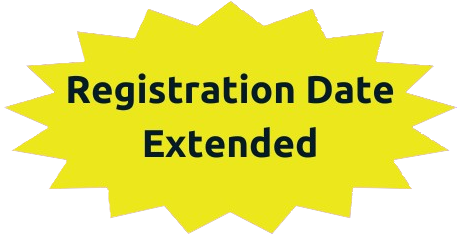
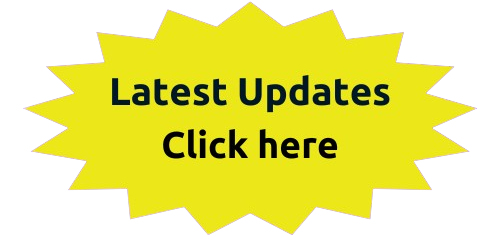
update changes on website

diff --git a/src/Styling/Home.css b/src/Styling/Home.css
@@ -60,8 +60,7 @@
   margin-left: calc(95% - 20px - 200px);
   position: absolute;
 }
-.extended img
-{
+.extended img {
   margin-top: 0px;
   width: 80%;
   cursor: pointer;
@@ -79,12 +78,15 @@
   border-radius: 8px;
   box-shadow: 0 0 10px rgba(0, 0, 0, 0.2);
   z-index: 1000;
-  width: 600px;
+  width: 70%;
+  overflow-y: scroll;
+  height: 350px;
 }
 
 .dialog h1 {
   margin-top: 0;
   color: #001727;
+  font-size: 22px;
 }
 
 .dialog a {
@@ -93,18 +95,17 @@
   color: #001727;
   text-decoration: none;
 }
-.dialog p{
+.dialog p {
   color: #001727;
-  font-size: 22px;
+  font-size: 18px;
   font-weight: 400;
 }
 
-.dialog button
-{
-  color:#001727;
-  background-color:#ebe718;
+.dialog button {
+  color: #001727;
+  background-color: #ebe718;
   padding: 5px;
-  font-size: 22px;
+  font-size: 18px;
   font-weight: 600;
   border-radius: 8px;
   border: none;
@@ -112,13 +113,11 @@
   height: 45px;
   transition: all 0.8 s ease;
 }
-.link_to_next_page
-{
+.link_to_next_page {
   display: flex;
   justify-content: space-between;
 }
-#next_page
-{
+#next_page {
   color: #001727;
   width: 150px;
 }
@@ -146,8 +145,7 @@
   overflow: hidden;
   animation: marqueeAnimation 12s linear infinite;
 }
-.marquee a
-{
+.marquee a {
   color: #001727;
   font-size: 16px;
   margin-bottom: 0px;
@@ -160,7 +158,7 @@
 
 @media (max-width: 1150px) {
   .main_page {
-    padding-top: 0px
+    padding-top: 0px;
   }
   .content-home h2 {
     font-size: 3.5vh;
@@ -218,29 +216,22 @@
     margin-right: 5px;
     margin-left: calc(100% - 5px - 180px);
   }
-  .dialog h1 {
-    margin-top: 0;
-    font-size: 22px;
-    color: #001727;
+  .dialog {
+    width: 70%;
   }
-  .dialog p{
-    color: #001727;
-    font-size: 18px;
-    font-weight: 400;
+  .extended img {
+    width: 100%;
   }
-  .dialog a
-  {
-    display: block;
-  }
-  .dialog button
-  {
-    font-size: 18px;
+  .dialog button {
+    font-size: 16px;
     width: 80px;
-    height: 35px;
   }
-  .extended img
-  {
-    width:100%
+}
+@media (max-width: 768px) {
+  .dialog {
+    font-size: 12px !important;
+    max-width: 90% !important;
+    width: 90% !important;
   }
 }
 
@@ -249,8 +240,7 @@
     font-size: 2.5vh;
     line-height: 4vh;
   }
-  .main_page
-  {
+  .main_page {
     padding: 5px;
   }
   .main_page h1 {
@@ -266,8 +256,7 @@
   .content-home h4 {
     font-size: 1.8vh;
   }
-  .marquee
-  {
+  .marquee {
     margin-bottom: 0px;
   }
   .Registeration_extension {
@@ -275,9 +264,11 @@
     margin-right: 5px;
     margin-left: calc(100% - 5px - 120px);
   }
-  .extended img
-  {
-    width:90%
+  .extended img {
+    width: 90%;
+  }
+  .dialog {
+    width: 70%;
   }
 }
 
@@ -320,8 +311,6 @@
     box-shadow: 0 0 5px rgba(235, 232, 24, 0.668);
   }
 }
-
-
 
 @keyframes marqueeAnimation {
   0% {

diff --git a/src/Components/Home.jsx b/src/Components/Home.jsx
@@ -3,7 +3,7 @@ import "../Styling/Home.css";
 import logo_hack from "../Assets/logo.png";
 import pict_logo from "../Assets/pict_logo.png";
 import Register_extended from "../Assets/Registration_extended.png";
-import TechFiestaTemplate from '../Assets/TechFiesta_Template.pptx';
+import TechFiestaTemplate from "../Assets/TechFiesta_Template.pptx";
 import { Link } from "react-router-dom";
 
 const Home = () => {
@@ -28,15 +28,31 @@ const Home = () => {
       {showDialog && (
         <div className="dialog">
           <h1>Registration Extended</h1>
+          <span className="close" onClick={handleDialogToggle}>
+              &times;
+          </span>
           <p>
-            In the view of the requests from different colleges, registration
-            for hackathon is extended upto 15th Feb.
+            In the view of the requests from different colleges regarding idea
+            submission, registration & idea submission for hackathon is extended
+            upto 19th Feb.
           </p>
           <div className="link_to_next_page">
-            <button onClick={handleDialogToggle}>Close</button>
             <button id="next_page">
               <Link to="/register" onClick={handleDialogToggle}>
                 Register Now
+              </Link>
+            </button>
+          </div>
+          <hr />
+          <h1>Instructions Regarding Online Meeting</h1>
+          <p>
+            An online meeting is scheduled on 16th February at 11:00 am for all
+            team leaders, please check the instructions below.
+          </p>
+          <div className="link_to_next_page">
+            <button id="next_page">
+              <Link to="/instructions" onClick={handleDialogToggle}>
+                Details
               </Link>
             </button>
           </div>

diff --git a/src/Components/Meet_instructions.jsx b/src/Components/Meet_instructions.jsx
@@ -1,0 +1,36 @@
+import React from "react";
+import "../Styling/Rules.css";
+const Meet_instructions = () => {
+  return (
+    <div className="rules">
+      <h1>Instructions</h1>
+      <div className="rule">
+        <ul>
+          <li>
+            An online meeting is scheduled on 16th February at 11:00 am for all
+            team leaders
+          </li>
+          <li>Only team leaders should join 5 mins earlier</li>
+          <li>
+            All the instructions will be given in the meeting regarding the
+            hackathon and evaluation process.
+          </li>
+          <li> Meeting is compulsory for all team leader , be on time</li>
+          <li>Meeting Link is already circulated on whatsapp group.</li>
+        </ul>
+      </div>
+      <div className="rule">
+        <h2>EVALUATION CRITERIA</h2>
+        <ul>
+          <li>Novelty of the idea to address the problem</li>
+          <li>Approach to Explore Idea</li>
+          <li>Feasibility & Complexity</li>
+          <li>Approach towards implementing the System and Future Use cases</li>
+          <li>Clarity & details in the presentation as a team and Q & A</li>
+        </ul>
+      </div>
+    </div>
+  );
+};
+
+export default Meet_instructions;

diff --git a/src/App.js b/src/App.js
@@ -12,6 +12,7 @@ import './App.css'
 import Problem from "./Components/Problem";
 import Register from "./Components/Register";
 import Submit from "./Components/Submit";
+import Meet_instructions from "./Components/Meet_instructions";
 function App() {
   return (
     <BrowserRouter>
@@ -23,6 +24,7 @@ function App() {
         <Route path="/guidelines" element={<Guidelines></Guidelines>}></Route>
         <Route path="/register" element={<Register></Register>}></Route>
         <Route path="/timeline" element={<Timeline></Timeline>}></Route>
+        <Route path="/instructions" element={<Meet_instructions></Meet_instructions>}></Route>
         <Route path="/thankyoufrompict_techfiesta" element={<Submit />}></Route>
       </Routes>
     </BrowserRouter>
